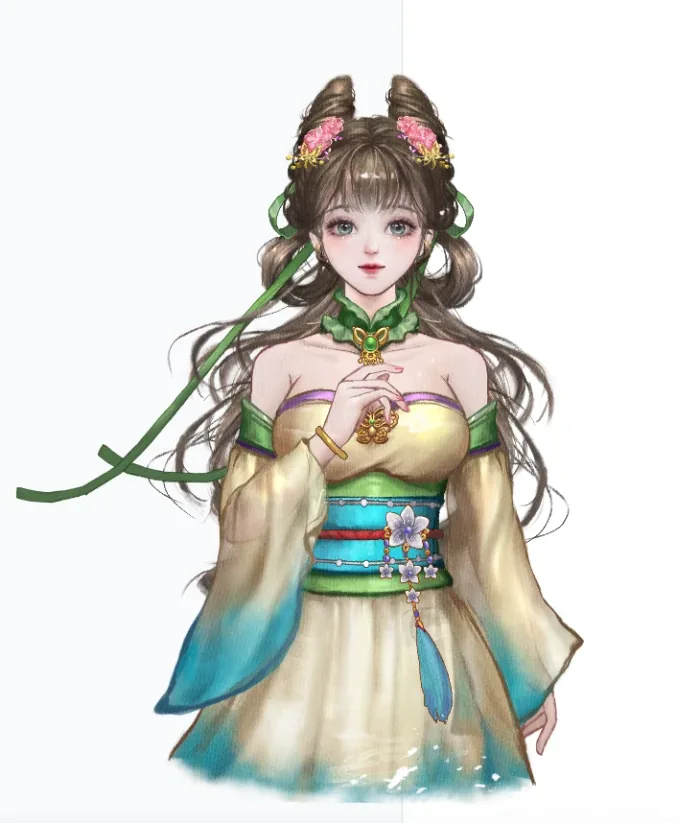
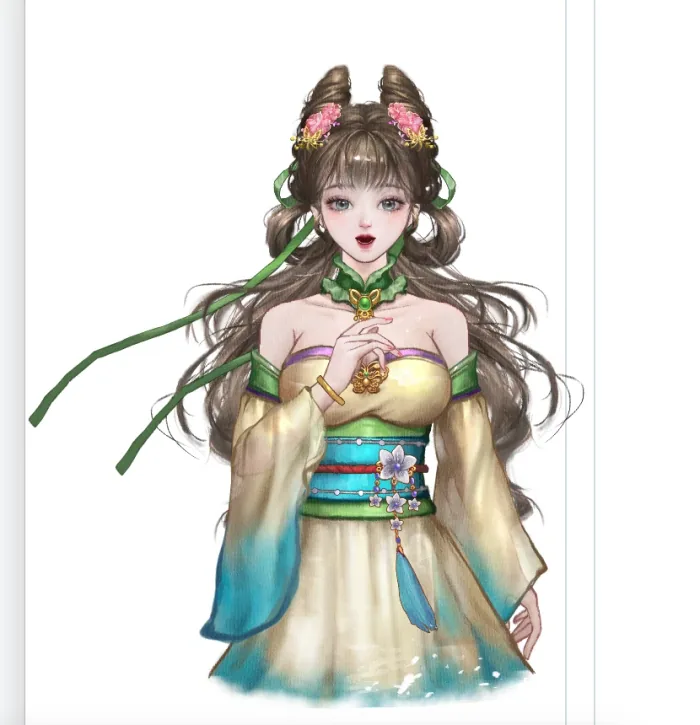
Correct the desktop pet page: the mouth screenshot, the asset boundary and what installation covers
The 说话时张嘴 section illustrated the resting pose; it now shows the mouth open while she speaks.

The asset boundary was worded as if the models were never distributed. They are not committed to this repository (.gitignore excludes desktop-pet/assets/* and only NOTICE.txt is tracked), but the plugin package and the product profile do ship all 781 files, so the page now says that and keeps the licensing condition separate from it.

Installation needed the same precision: both plugins arrive with the product profile, so installing Harness installs them; the companion's window starts hidden behind 显示伙伴, and only the speech chain — the pet's own model endpoint and key, plus a TTS key and voice ID for reading aloud — needs credentials the user brings.

Changed region(s): [[0.0, 0.0, 0.84, 1.0], [0.15, 0.6372, 0.18, 0.6676]]

diff --git a/README.md b/README.md
@@ -130,7 +130,7 @@ To make file changes inside a Harness session **visible, editable and referencea
 
 ### The mouth moves while she speaks
 
-![Mengmei in her resting state](docs/images/pet-mengmei.webp)
+![Mengmei with her mouth open while she speaks](docs/images/pet-mengmei.webp)
 
 - **Mouth shapes driven by the timeline**: Live2D companions drive `ParamMouthOpenY` / `PARAM_MOUTH_OPEN_Y`, while DragonBones companions use hand-made a/o/i/m shapes;
 - **Reading rules come first**: Arabic digits read as spoken numerals, Latin letters by letter name, common symbols by their reading (`%` → percent, `@` → at), while typographic punctuation is only a pause and closes the mouth;
@@ -160,7 +160,7 @@ The pet keeps its own speech configuration (settings → 对话 / 声音) and **
 
 - **The companion has its own conversation**: open the input from the right-click menu, or use settings → 聊天记录; both share the latest conversation and a bounded context, and one reply keeps the configuration it started with;
 - **The bubble belongs to the character**: neither the main conversation's prose nor a read-out is written into it;
-- **Model assets are not distributed here**: the Live2D models come from `desktop-pet/assets/`, which `.gitignore` excludes, so a fresh clone restores them by the steps in [MAINTAINING.md](MAINTAINING.md);
+- **Model assets are not committed here**: `.gitignore` excludes `desktop-pet/assets/*` and only `NOTICE.txt` is tracked (the 781 model files live on disk, not in git), so a fresh clone has the code but no models and restores them by the steps in [MAINTAINING.md](MAINTAINING.md); those assets **do ship with the plugin package and the product profile**, and redistributing them needs each owner's permission;
 - **Asset rights stay with their owners**: character artwork, models and the Live2D Core are not covered by this repository and need their own permission before public redistribution.
 
 ---
@@ -181,7 +181,7 @@ The pet keeps its own speech configuration (settings → 对话 / 声音) and **
 **The companion is our own product plugin, maintained in this repository**, and the product profile assembles it into the runtime.
 
 - **The flagship character Mengmei is built on material provided by 苍月动漫**: we use that material and built the Live2D / DragonBones drive, pointer following, mouth, speech and read-out chain on top of it; the character and its model remain entirely their owner's.
-- **The built-in Live2D models** come from the third-party collection [Eikanya/Live2d-model](https://github.com/Eikanya/Live2d-model); provenance and boundaries are recorded in `desktop-pet/assets/NOTICE.txt`, and **the model files are not distributed here**.
+- **The built-in Live2D models** come from the third-party collection [Eikanya/Live2d-model](https://github.com/Eikanya/Live2d-model); provenance and boundaries are recorded in `desktop-pet/assets/NOTICE.txt`, and **the model files are not committed here** (only `NOTICE.txt` is tracked) while the plugin package and the product profile do ship them, so redistributing them needs the owners' permission.
 - **Speech** uses the **Doubao voice** (Volcengine Ark) synthesis API, so every user brings their own key and voice; cloned voices are used through the same Ark speaker ID.
 - **Mouth, following and read-out rules** rest on this plugin's own implementation and measurements, documented in [desktop-pet/README.md](desktop-pet/README.md) ([中文](desktop-pet/README.zh.md)).
 
@@ -189,12 +189,13 @@ The pet keeps its own speech configuration (settings → 对话 / 声音) and **
 
 ## Install and enable
 
-The plugin is assembled by the Harness product profile and ships with the runtime; it needs no separate install script.
+Both plugins are assembled by the Harness product profile and ship with the runtime: **installing Harness installs the plugins**, and no separate install script exists.
 
 - **Product manifest**: the app tree's `distribution/profile-manifest.json` points `dsh-file-edit` and `dsh-desktop-pet` at `plugins/file-edit` and `plugins/desktop-pet`;
 - **Session assembly**: the app tree's `distribution/cordis.patch.yml` inserts both plugin entries;
 - **Sync**: the app tree takes the plugin sources from this repository with `npm run sync:plugins`, which the packaging chain runs automatically;
-- **The pet needs local configuration too**: show the companion in the sidebar's 桌宠 panel first, then fill in the endpoint, keys and voice as described above.
+- **The companion works out of the box**: the character library, switching characters, touch and drag interaction and pointer following need no configuration at all. Its window starts hidden — turn on 显示伙伴 in the sidebar's 桌宠 panel, and that choice is remembered;
+- **Only the speech chain needs credentials of your own**: talking to the companion needs its own model endpoint and key, and reading text aloud additionally needs a TTS key and a voice ID (Doubao / Volcengine Ark, cloned voices included); the mouth, the captions and the action keywords are all driven by that speech chain. These are account credentials for the feature, not installation steps — see *The voice and its key are yours to configure* above.
 
 ## Repository layout
 
@@ -214,4 +215,4 @@ Plugin sources are maintained only in this repository; the app-tree copy is gene
 
 ## License
 
-Released under the **MIT License** — see [LICENSE](LICENSE). You may use, modify and redistribute these plugins, including inside another product, as long as the copyright notice and the permission notice stay with the code. Embedded third-party components: [THIRD-PARTY-NOTICES.md](THIRD-PARTY-NOTICES.md). **MIT covers the code only**: the characters and Live2D models under `desktop-pet/assets/` are covered by their own notices and are not distributed here (see [MAINTAINING.md](MAINTAINING.md)).
+Released under the **MIT License** — see [LICENSE](LICENSE). You may use, modify and redistribute these plugins, including inside another product, as long as the copyright notice and the permission notice stay with the code. Embedded third-party components: [THIRD-PARTY-NOTICES.md](THIRD-PARTY-NOTICES.md). **MIT covers the code only**: the characters and Live2D models under `desktop-pet/assets/` are covered by their own notices and stay outside this repository's licence (they are **not committed here**, but the plugin package and the product profile do ship them; see [MAINTAINING.md](MAINTAINING.md)).

diff --git a/README.zh.md b/README.zh.md
@@ -130,7 +130,7 @@
 
 ### 说话时张嘴
 
-![萌妹的常驻状态](docs/images/pet-mengmei.webp)
+![萌妹说话时张嘴](docs/images/pet-mengmei.webp)
 
 - **按时间轴驱动口型**：Live2D 角色驱动 `ParamMouthOpenY`／`PARAM_MOUTH_OPEN_Y`；龙骨角色使用手工制作的 a／o／i／m 四个口型；
 - **先转「读法」再取元音**：阿拉伯数字按中文数字、拉丁字母按字母名、常见符号按读法转写（`%`→百分号、`@`→艾特…），排版类标点只当停顿、闭嘴；
@@ -160,7 +160,7 @@
 
 - **伙伴有自己的对话**：右键菜单打开输入框，或使用设置 →「聊天记录」页；两者共用最近一次对话与有上限的上下文，一轮回复固定使用开始时的配置；
 - **气泡只属于角色**：主对话正文与朗读内容都不会写进桌宠气泡；
-- **模型素材不随本仓库分发**：Live2D 模型由 `desktop-pet/assets/` 提供并被 `.gitignore` 排除，全新克隆需要按 [MAINTAINING.zh.md](MAINTAINING.zh.md) 的步骤恢复；
+- **模型素材不提交进本仓库**：`desktop-pet/assets/*` 被 `.gitignore` 排除，仓库里只跟踪 `NOTICE.txt`（781 个模型文件在磁盘上、不在 git 里），所以全新克隆有代码但没有模型，需要按 [MAINTAINING.zh.md](MAINTAINING.zh.md) 的步骤恢复；这些素材**会随插件包与产品 Profile 一起交付**，再分发它们需要素材方各自的许可；
 - **素材权利归各自所有者**：角色形象、模型与 Live2D Core 的权利不属于本仓库，公开分发前需要各自的许可。
 
 ---
@@ -181,7 +181,7 @@
 **桌宠是我们自己的产品插件，源码就维护在本仓库**，随产品 Profile 装配进运行时。
 
 - **主推形象「萌妹」的素材由「苍月动漫」提供**：我们使用该素材，并在此基础上完成了 Live2D／龙骨驱动、鼠标跟随、口型、语音与朗读链路；角色形象与模型的全部权利归素材方所有。
-- **内置 Live2D 模型**取自第三方合集 [Eikanya/Live2d-model](https://github.com/Eikanya/Live2d-model)，来源与边界见 `desktop-pet/assets/NOTICE.txt`；**模型文件不随本仓库分发**。
+- **内置 Live2D 模型**取自第三方合集 [Eikanya/Live2d-model](https://github.com/Eikanya/Live2d-model)，来源与边界见 `desktop-pet/assets/NOTICE.txt`；**模型文件不提交进本仓库**（只跟踪 `NOTICE.txt`），但会随插件包与产品 Profile 一起交付，再分发需素材方许可。
 - **语音能力**使用**豆包语音**（火山方舟）的语音合成接口，需要使用者自备 Key 与音色；复刻音色同样通过方舟的 speaker ID 使用。
 - **口型、跟随与朗读规则**的依据是插件自己的实现与实测数据，详见 [desktop-pet/README.md](desktop-pet/README.md)（[中文](desktop-pet/README.zh.md)）。
 
@@ -189,12 +189,13 @@
 
 ## 安装与启用
 
-本插件由 Harness 产品 Profile 装配，随发行包进入运行时，不需要单独的安装脚本。
+两个插件都由 Harness 产品 Profile 装配、随发行包进入运行时：**装好 Harness 就装好了插件，不需要单独的安装脚本**。
 
 - **产品清单**：App 树的 `distribution/profile-manifest.json` 把 `dsh-file-edit` 与 `dsh-desktop-pet` 分别指向 `plugins/file-edit` 与 `plugins/desktop-pet`；
 - **会话装配**：App 树的 `distribution/cordis.patch.yml` 插入这两个插件条目；
 - **同步**：App 树通过 `npm run sync:plugins` 从本仓库取得插件源码，打包前自动执行；
-- **桌宠额外需要本机配置**：先在左侧栏「桌宠」里显示伙伴，再按上文《音色与 Key 需要你自己配置》填好接口、Key 与音色。
+- **桌宠开箱即用**：角色库、切换角色、摸头与拖动等互动、鼠标跟随都不需要任何配置。桌宠窗口默认不显示，在左侧栏「桌宠」里打开「显示伙伴」即可，这个选择会被记住；
+- **需要你自备凭据的只有语音链路**：和角色对话需要桌宠自己的模型接入点与 Key，朗读还需要 TTS Key 与音色 ID（豆包／火山方舟，支持复刻音色）；说话时的口型、字幕与动作关键词都由这条语音链路驱动。这是功能的账号凭据，不是安装步骤，详见上文《音色与 Key 需要你自己配置》。
 
 ## 仓库结构
 
@@ -214,4 +215,4 @@ THIRD-PARTY-NOTICES.md  内嵌第三方与二次开发声明
 
 ## 许可证
 
-本仓库以 **MIT License** 发布，见 [LICENSE](LICENSE)。在保留版权声明与许可声明的前提下，可以使用、修改、再分发这些插件，包括打包进其它产品。内嵌第三方组件见 [THIRD-PARTY-NOTICES.md](THIRD-PARTY-NOTICES.md)。**MIT 只覆盖代码**：`desktop-pet/assets/` 下的角色与 Live2D 模型素材由各自的声明覆盖，且不随本仓库分发（见 [MAINTAINING.zh.md](MAINTAINING.zh.md)）。
+本仓库以 **MIT License** 发布，见 [LICENSE](LICENSE)。在保留版权声明与许可声明的前提下，可以使用、修改、再分发这些插件，包括打包进其它产品。内嵌第三方组件见 [THIRD-PARTY-NOTICES.md](THIRD-PARTY-NOTICES.md)。**MIT 只覆盖代码**：`desktop-pet/assets/` 下的角色与 Live2D 模型素材由各自的声明覆盖，不在本仓库的许可范围内（它们**不提交进本仓库**，但会随插件包与产品 Profile 一起交付；见 [MAINTAINING.zh.md](MAINTAINING.zh.md)）。
